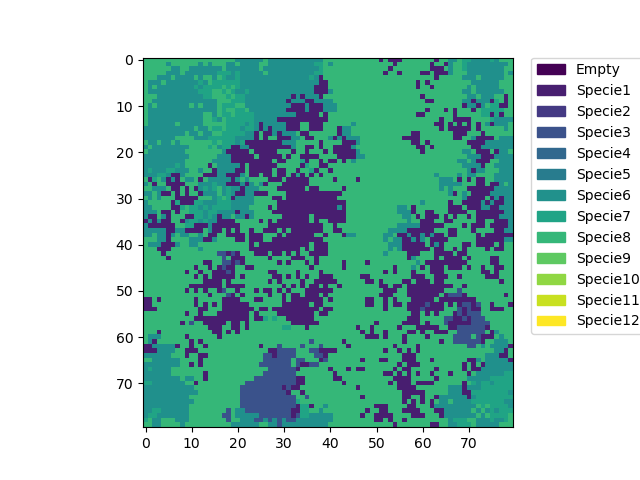
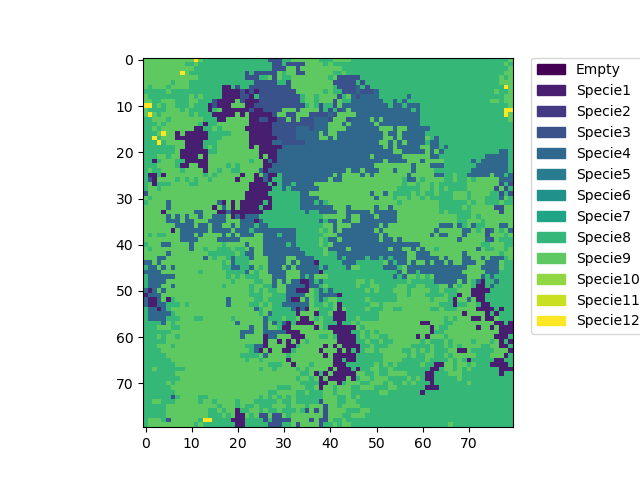
das

diff --git a/grid.py b/grid.py
@@ -21,7 +21,7 @@ class Grid:
         '''
         Updates grid's pixels values by computing competing and arrival functions
         '''
-        
+        old = self.table.copy()
         #Aplies arrival_func
         for pixel in range(self.M):
             #Checks if pixel is not already populated since arrival func is only applied in empty squares
@@ -31,10 +31,10 @@ class Grid:
             self.table[pixel][self.M-1] = arrival_func(self.table[0][pixel],species,lamb)#Applies arrival func in bottom part of the grid
         
         #Applies competing func to every square
+
         novo = self.table.copy()#Copy original grid
         for i in range(self.M):
             for j in range(self.M):
-                old = novo[i, j]
                 novo[i, j] = competing_func(self.table,(i,j),species)
         
         self.table[:][:] = novo[:][:] #Updates original grid to point to the new one
@@ -42,7 +42,9 @@ class Grid:
         #Update Individuals values
         for i in range(self.M):
             for j in range(self.M):
-                if self.table[i, j] != 0:
+                if self.table[i, j] != 0 and self.table[i, j] != old[i, j]:
+                    if old[i,j] != 0:
+                        species[old[i,j] - 1].individuals -= 1
                     species[self.table[i, j] - 1].individuals += 1
 
         return self.table

diff --git a/main.py b/main.py
@@ -119,4 +119,4 @@ def main(lamb = LAMB, sigma = SIGMA, MAX_ESPECIES = MAX_ESPECIES):
 if __name__ == '__main__':
     main(50, 0.1, 6)
 
-#[(20, 0.01, 6), ((20, 0.01, 12)), (20, 0.05, 6), (20, 0.05, 12), (20, 0.1, 6), (20, 0.1, 12), (50, 0.01, 6), (50, 0.01, 12), (50, 0.05, 6), (50, 0.05, 12), (50, 0.1, 6), (50, 0.1, 12), (150, 0.01, 6), (150, 0.01, 12), (150, 0.05, 6), (150, 0.05, 12), (150, 0.1, 6), (150, 0.1, 12)]
+#[(20, 0.05, 12), (50, 0.01, 6), (50, 0.05, 6), (50, 0.05, 12), (50, 0.1, 6), (100, 0.05, 6)]
